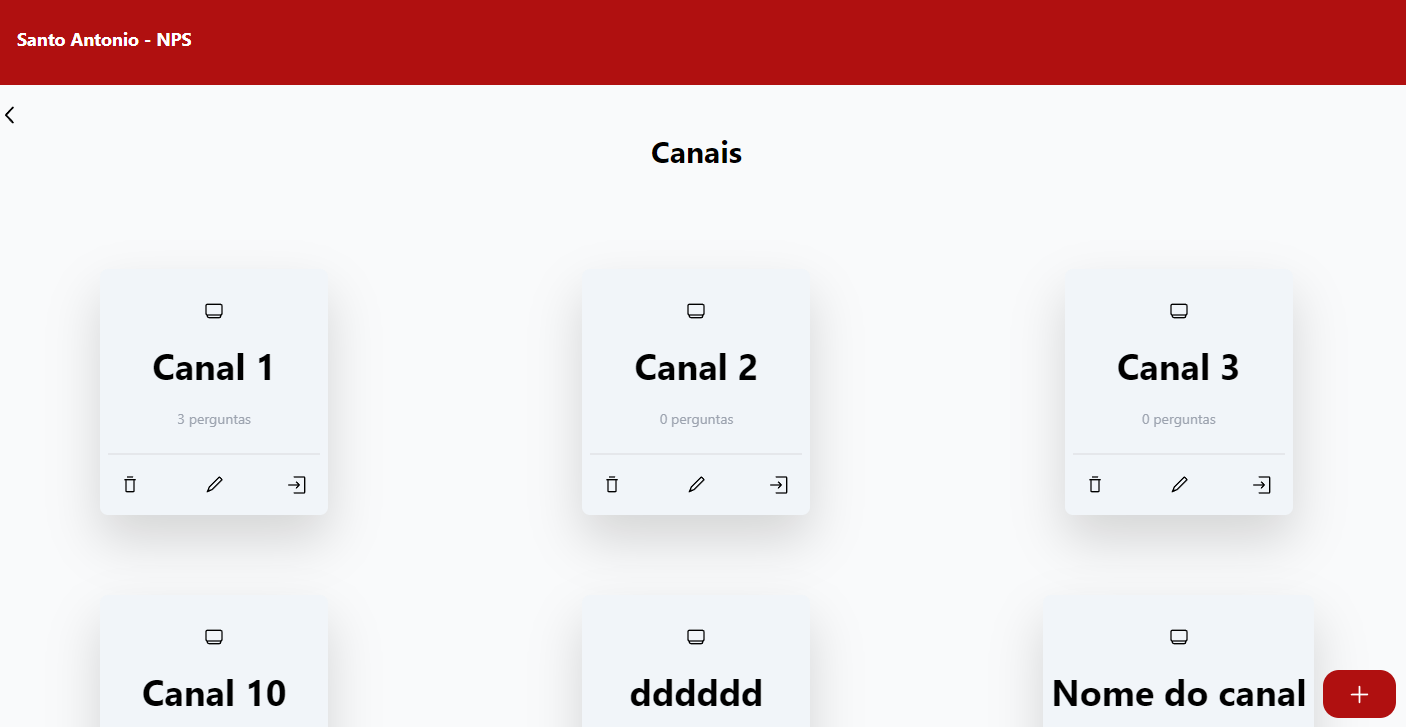
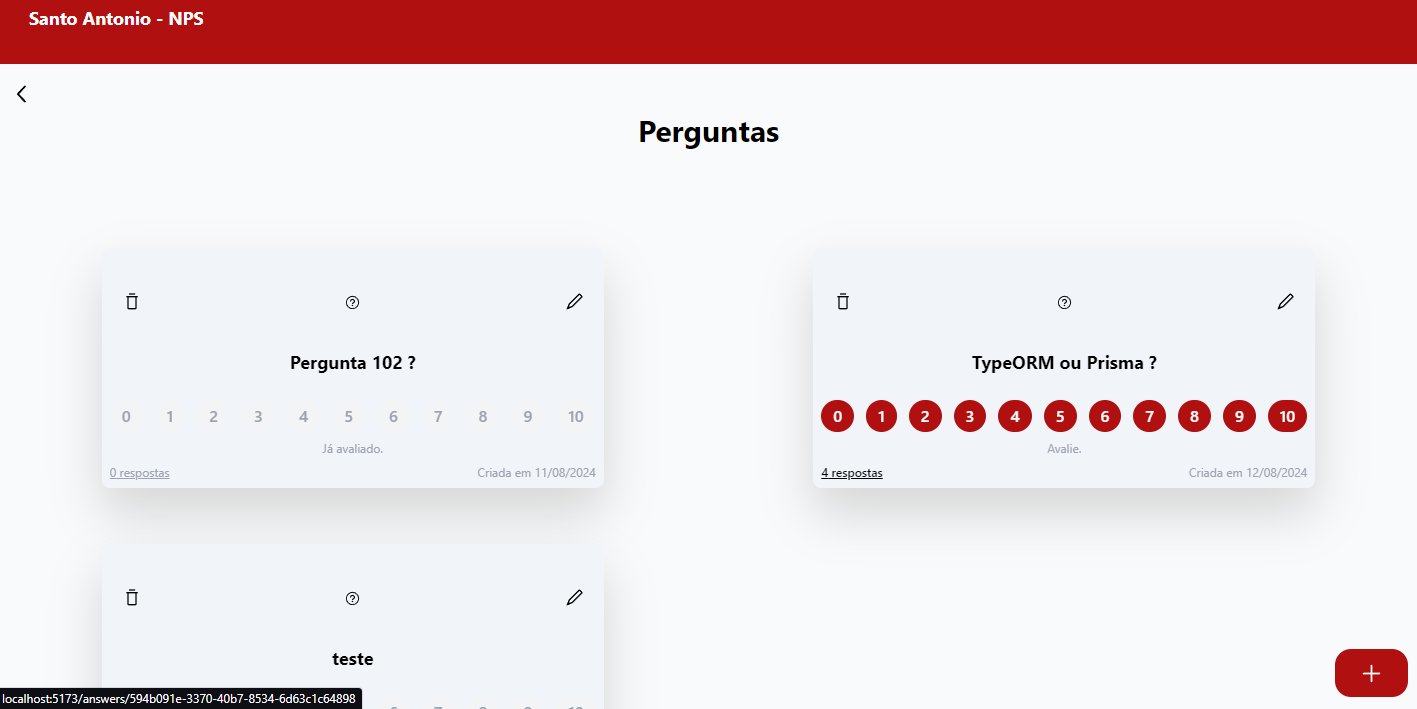
tirando log  e ajustes

diff --git a/fe/eslint.config.js b/fe/eslint.config.js
@@ -1,26 +1,29 @@
-import js from '@eslint/js'
-import globals from 'globals'
-import reactHooks from 'eslint-plugin-react-hooks'
-import reactRefresh from 'eslint-plugin-react-refresh'
-import tseslint from 'typescript-eslint'
+import js from "@eslint/js";
+import globals from "globals";
+import reactHooks from "eslint-plugin-react-hooks";
+import reactRefresh from "eslint-plugin-react-refresh";
+import tseslint from "typescript-eslint";
 
 export default tseslint.config({
   extends: [js.configs.recommended, ...tseslint.configs.recommended],
-  files: ['**/*.{ts,tsx}'],
-  ignores: ['dist'],
+  files: ["**/*.{ts,tsx}"],
+  ignores: ["dist"],
   languageOptions: {
     ecmaVersion: 2020,
     globals: globals.browser,
   },
   plugins: {
-    'react-hooks': reactHooks,
-    'react-refresh': reactRefresh,
+    "react-hooks": reactHooks,
+    "react-refresh": reactRefresh,
   },
   rules: {
+    "@typescript-eslint/no-explicit-any": "off",
+    "@typescript-eslint/no-unused-vars": "off",
+
     ...reactHooks.configs.recommended.rules,
-    'react-refresh/only-export-components': [
-      'warn',
+    "react-refresh/only-export-components": [
+      "warn",
       { allowConstantExport: true },
     ],
   },
-})
+});

diff --git a/fe/src/view/pages/Question/index.tsx b/fe/src/view/pages/Question/index.tsx
@@ -21,6 +21,7 @@ import { Card } from '../../components/Card';
 import { ButtonBack } from '../../components/ButtonBack';
 import { UpdateQuestionModal } from './UpdateQuestionModal';
 import { useUpdateQuestionModalController } from './controllers/useUpdateChannelModalController';
+import { NoItens } from '../../components/NoItens';
 
 const grades = [0, 1, 2, 3, 4, 5, 6, 7, 8, 9, 10];
 
@@ -76,7 +77,7 @@ export function Question() {
 
   return (
     <>
-      <Title title="Canais" />
+      <Title title="Perguntas" />
       <div
         data-tooltip-id="my-tooltip"
         data-tooltip-content="Adicionar Pergunta"
@@ -88,9 +89,7 @@ export function Question() {
       </div>
       <Tooltip id="my-tooltip" className="z-10" />
       <ButtonBack />
-      {questions.length === 0 && !isPending && (
-        <div>Não foi encontrado perguntas</div>
-      )}
+      {questions.length === 0 && !isPending && <NoItens itemType="perguntas" />}
       {isPending && (
         <div className=" flex justify-center h-72  items-center">
           <Spinner classname="w-12 h-12" />

diff --git a/fe/src/view/pages/Channel/index.tsx b/fe/src/view/pages/Channel/index.tsx
@@ -14,7 +14,7 @@ import { UpdateChannelModal } from "./UpdateChannelModal";
 import { useUpdateChannelModalController } from "./controllers/useUpdateChannelModalController";
 import { Link } from "react-router-dom";
 import { Card } from '../../components/Card';
-import { ButtonBack } from '../../components/ButtonBack';
+import { NoItens } from '../../components/NoItens';
 
 export function Channel() {
   const { channels, isPending: isLoadingChannels } = useChannelController();
@@ -52,8 +52,9 @@ export function Channel() {
         </Button>
       </div>
       <Tooltip id="my-tooltip" className="z-10" />
-      <ButtonBack />
-      {channels.length === 0 && !isLoadingChannels && <div>não tem Canal</div>}
+      {channels.length === 0 && !isLoadingChannels && (
+        <NoItens itemType="canais" />
+      )}
       {isLoadingChannels && (
         <div className=" flex justify-center h-72  items-center">
           <Spinner classname="w-12 h-12" />

diff --git a/fe/src/view/pages/Question/controllers/useFeedbackQuestionModalController.ts b/fe/src/view/pages/Question/controllers/useFeedbackQuestionModalController.ts
@@ -7,8 +7,8 @@ import { RateQuestionParams } from "../../../../app/services/QuestionService/rat
 
 export function useFeedbackQuestionModalController() {
   const { closeFeedbackQuestionModal } = useModals();
-  const [questionNote, setQuestionNote] = useState<any>();
-  const [ratedQuestionId, setRatedQuestionId] = useState<any>();
+  const [questionNote, setQuestionNote] = useState<string>();
+  const [ratedQuestionId, setRatedQuestionId] = useState<string>();
   const [gradedQuestion, setGradedQuestion] = useState<any>();
 
 
@@ -43,7 +43,6 @@ export function useFeedbackQuestionModalController() {
        closeFeedbackQuestionModal()
 
      } catch (error) {
-       console.log("🚀 ~ handleSubmit ~ error:", error);
        toast.error("Erro ao avaliar pergunta!");
      }
    };

diff --git a/fe/src/view/pages/Answers/controllers/useDeleteAnswersModalController.ts b/fe/src/view/pages/Answers/controllers/useDeleteAnswersModalController.ts
@@ -27,7 +27,6 @@ export function useDeleteAnswerModalController() {
        toast.success("Resposta deletado com sucesso!");
        closeDeleteAnswersModal();
      } catch (error) {
-       console.log("🚀 ~ handleSubmit ~ error:", error);
        toast.error("Erro ao deletar o resposta!");
      }
    };

diff --git a/fe/src/view/pages/Question/controllers/useDeleteQuestionModalController.ts b/fe/src/view/pages/Question/controllers/useDeleteQuestionModalController.ts
@@ -31,7 +31,6 @@ export function useDeleteQuestionModalController() {
        toast.success("Canal deletado com sucesso!");
        closeDeleteQuestionModal();
      } catch (error) {
-       console.log("🚀 ~ handleSubmit ~ error:", error);
        toast.error("Erro ao deletar o pergunta!");
      }
    };

diff --git a/fe/src/view/pages/Question/controllers/useUpdateChannelModalController.ts b/fe/src/view/pages/Question/controllers/useUpdateChannelModalController.ts
@@ -37,7 +37,6 @@ export function useUpdateQuestionModalController() {
       toast.success("Pergunta editado com sucesso!");
       closeUpdateQuestionModal();
     } catch (error) {
-      console.log("🚀 ~ handleSubmit ~ error:", error);
       toast.error("Erro ao editar o Pergunta!");
     }
   };

diff --git a/fe/src/view/pages/Channel/controllers/useDeleteChannelModalController.ts b/fe/src/view/pages/Channel/controllers/useDeleteChannelModalController.ts
@@ -31,7 +31,6 @@ export function useDeleteChannelModalController() {
        toast.success("Canal deletado com sucesso!");
        closeDeleteChannelModal();
      } catch (error) {
-       console.log("🚀 ~ handleSubmit ~ error:", error);
        toast.error("Erro ao criar o canal!");
      }
    };

diff --git a/fe/src/view/pages/Answers/controllers/useUpdateChannelModalController.ts b/fe/src/view/pages/Answers/controllers/useUpdateChannelModalController.ts
@@ -37,7 +37,6 @@ export function useUpdateAnswerModalController() {
       toast.success("Resposta editado com sucesso!");
       closeUpdateAnswersModal();
     } catch (error) {
-      console.log("🚀 ~ handleSubmit ~ error:", error);
       toast.error("Erro ao editar o Resposta!");
     }
   };

diff --git a/fe/src/view/pages/Channel/controllers/useUpdateChannelModalController.ts b/fe/src/view/pages/Channel/controllers/useUpdateChannelModalController.ts
@@ -37,7 +37,6 @@ export function useUpdateChannelModalController() {
       toast.success("Canal editado com sucesso!");
       closeUpdateChannelModal();
     } catch (error) {
-      console.log("🚀 ~ handleSubmit ~ error:", error);
       toast.error("Erro ao editar o canal!");
     }
   };

diff --git a/fe/src/view/pages/Question/controllers/useNewQuestionModalController.ts b/fe/src/view/pages/Question/controllers/useNewQuestionModalController.ts
@@ -29,7 +29,6 @@ export function useNewQuestionModalController() {
       toast.success("Pergunta criada com sucesso!");
       closeNewQuestionModal();
     } catch (error) {
-      console.log("🚀 ~ handleSubmit ~ error:", error);
       toast.error("Erro ao criar pergunta!");
     }
   };

diff --git a/fe/src/view/pages/Answers/controllers/useNewQuestionModalController.ts b/fe/src/view/pages/Answers/controllers/useNewQuestionModalController.ts
@@ -30,7 +30,6 @@ export function useNewAnswerModalController() {
       toast.success("Resposta criada com sucesso!");
       closeNewAnswersModal();
     } catch (error) {
-      console.log("🚀 ~ handleSubmit ~ error:", error);
       toast.error("Erro ao criar resposta!");
     }
   };
